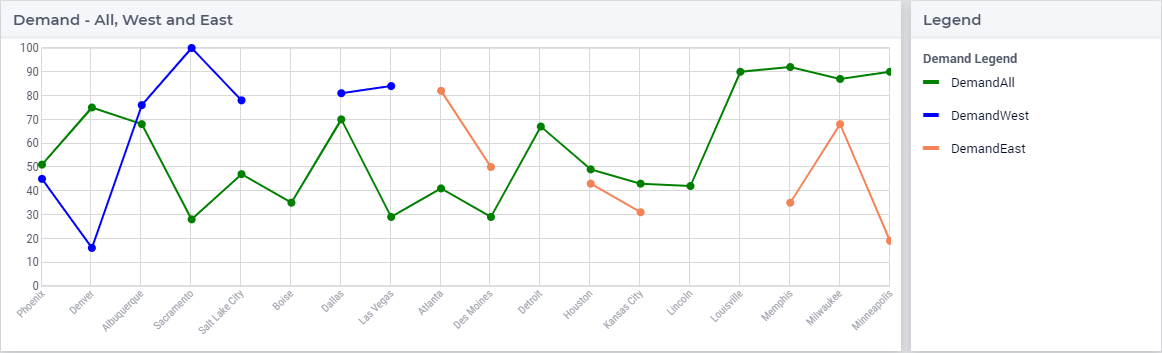
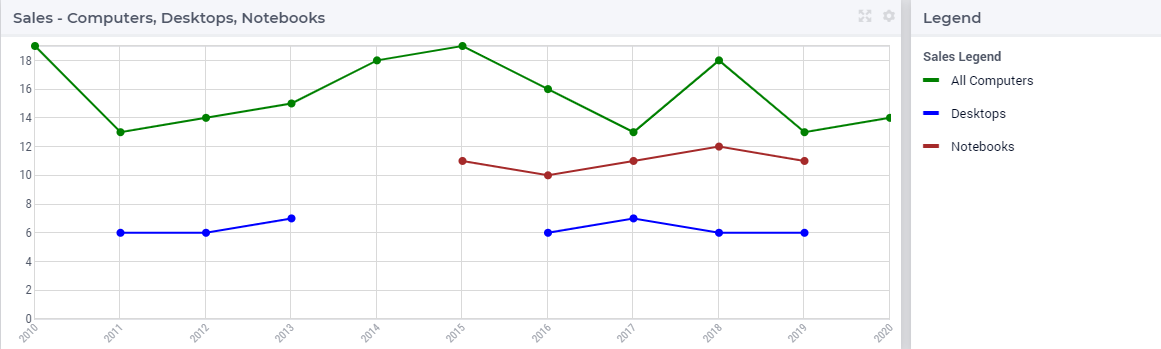
Made changes to the discontinuous line example as suggested

diff --git a/webui/line-chart-widget.rst b/webui/line-chart-widget.rst
@@ -53,46 +53,35 @@ Again, for every factory f there is a line in the chart with a different color, 
 
 In software versions 4.74 onwards, the points that have no values (NULL) and are outside the domain are not plotted, potentially resulting in a discontinuous line. In earlier versions, the points were plotted with a default value (most probably 0 if not defined in the default attribute of the identifier).
 
-To illustrate the above scenario, the following snippet can be used. There are three sets ``AllLocations``, ``WestLocations`` and ``EastLocations``. ``WestLocations`` and ``EastLocations`` are subsets of ``AllLocations``. There are three identifiers ``DemandAll`` over ``AllLocations``, ``DemandWest`` over ``WestLocations`` and ``DemandEast`` over ``EastLocations``, that are added to the contents of the line chart. The identifiers ``DemandWest`` and ``DemandEast`` are displaced over slice 'l' (sliced over the superset).
+To illustrate the above scenario, the following snippet can be used. There are three sets ``Computers``, ``Notebooks`` and ``Desktops``. ``Notebooks`` and ``Desktops`` are subsets of ``Computers``. There are three identifiers ``AllComputersSales`` over ``Computers``, ``NotebookSales`` over ``Notebooks`` and ``DesktopSales`` over ``Desktops``, that are added to the contents of the line chart. The identifiers ``NotebookSales`` and ``DesktopSales`` are displaced over slice 'c' (sliced over the superset).
 
 .. code::
-
-    Set AllLocations {
-		Index: l;
-		Definition: {
-			data 
-			    { Phoenix         , Denver          , Albuquerque     , Sacramento      , 'Salt Lake City', Boise           , Dallas          ,
-			      'Las Vegas'     , Atlanta         , 'Des Moines'    , Detroit         , Houston         , 'Kansas City'   , Lincoln         ,
-			      Louisville      , Memphis         , Milwaukee       , Minneapolis     }
-		}
+	
+	Set Computers {
+		Index: c;
+		Definition: data { 2010, 2011, 2012, 2013, 2014, 2015, 2016, 2017, 2018, 2019, 2020 };
 	}
-	Set WestLocations {
-		SubsetOf: AllLocations;
-		Index: w;
-		Definition: data { Phoenix, Denver, Albuquerque, Sacramento, 'Salt Lake City', Dallas, 'Las Vegas' };
+	Set Notebooks {
+		SubsetOf: Computers;
+		Index: n;
+		Definition: data { 2015, 2016, 2017, 2018, 2019 };
 	}
-	Set EastLocations {
-		SubsetOf: AllLocations;
-		Index: e;
-		Definition: data { Atlanta, 'Des Moines', Houston, 'Kansas City', Memphis, Milwaukee, Minneapolis };
+	Set Desktops {
+		SubsetOf: Computers;
+		Index: d;
+		Definition: data { 2011, 2012, 2013, 2016, 2017, 2018, 2019 };
 	}
-	Parameter DemandAll {
-		IndexDomain: l;
-		Definition: {
-			data 
-			{ Phoenix          : 51,  Denver           : 75,  Albuquerque      : 68,  Sacramento       : 28,  'Salt Lake City' : 47,
-			  Boise            : 35,  Dallas           : 70,  'Las Vegas'      : 29,  Atlanta          : 41,  'Des Moines'     : 29,
-			  Detroit          : 67,  Houston          : 49,  'Kansas City'    : 43,  Lincoln          : 42,  Louisville       : 90,
-			  Memphis          : 92,  Milwaukee        : 87,  Minneapolis      : 90 }
-		}
+	Parameter AllComputersSales {
+		IndexDomain: c;
+		Definition: data { 2010 : 18,  2011 : 20,  2012 : 20,  2013 : 14,  2014 : 15,  2015 : 19,  2016 : 17,  2017 : 19,  2018 : 18,  2019 : 13,  2020 : 17 };
 	}
-	Parameter DemandWest {
-		IndexDomain: w;
-		Definition: data { Phoenix : 45,  Denver : 16,  Albuquerque : 76,  Sacramento : 100,  'Salt Lake City' : 78,  Dallas : 81,  'Las Vegas' : 84 };
+	Parameter NotebookSales {
+		IndexDomain: n;
+		Definition: data { 2015 : 11,  2016 : 10,  2017 : 11,  2018 : 12,  2019 : 11 };
 	}
-	Parameter DemandEast {
-		IndexDomain: e;
-		Definition: data { Atlanta : 82,  'Des Moines' : 50,  Houston : 43,  'Kansas City' : 31,  Memphis : 35,  Milwaukee : 68,  Minneapolis : 19 };
+	Parameter DesktopSales {
+		IndexDomain: d;
+		Definition: data { 2011 : 6,  2012 : 6,  2013 : 7,  2016 : 6,  2017 : 7,  2018 : 6,  2019 : 6 };
 	}
 
 .. image:: images/LineChart-DiscontinuousLine.png
